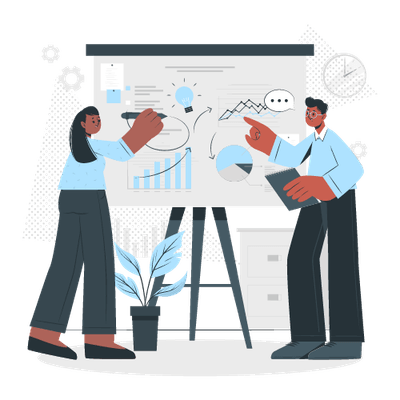
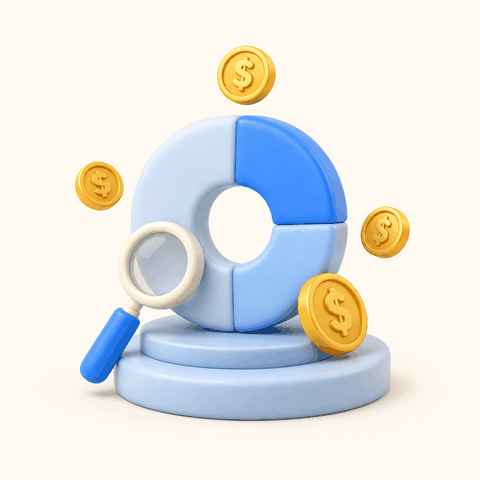
feat: clay-style 3D empty state illustration for revenue dashboard
Replace flat vector people illustration with a 3D claymorphism donut
chart + coins render matching the menu icon style. Rounded squircle
crop with soft blue shadow, optimized to 480px 8-bit PNG (105 KB).

diff --git a/artifacts/dental-crm/src/components/dashboard/revenue-empty-state.tsx b/artifacts/dental-crm/src/components/dashboard/revenue-empty-state.tsx
@@ -32,9 +32,9 @@ export function RevenueEmptyState() {
         loading="eager"
         fetchPriority="high"
         decoding="async"
-        width={200}
-        height={200}
-        className="w-full max-w-[200px] h-auto object-contain mb-4"
+        width={176}
+        height={176}
+        className="w-full max-w-[176px] h-auto object-contain mb-5 rounded-[40px] shadow-[0_10px_30px_-12px_rgba(31,117,254,0.25)]"
       />
 
       <h3 className="text-lg font-bold text-[var(--text)] tracking-tight">